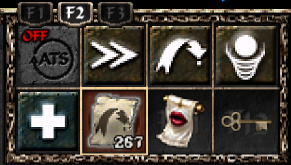
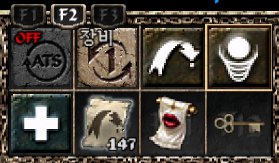
Improve hotel key and equipment verification and set MP readiness to 95 percent

diff --git a/pc/routine/hotel_key_check.py b/pc/routine/hotel_key_check.py
@@ -1,0 +1,75 @@
+"""Recheck missing hotel keys before allowing the purchase sequence."""
+import cv2
+
+from pc.routine.timing import sleep_jittered
+
+
+def check_hotel_key(settings, project_root, link, skill_panel, window_title,
+                    screen_capture_cls):
+    """Return True if seen, False after all valid misses, None if uncertain."""
+    from pc.routine.step_buy_hotel_key import ensure_visible_skill_tab
+
+    cfg = settings["icons"]["hotel_key"]
+    paths = cfg.get("templates") or [cfg["template"]]
+    templates = []
+    for path in paths:
+        template = cv2.imread(str(project_root / path))
+        if template is None:
+            print(f"  [hotel key] template unreadable: {path}; purchase blocked")
+            return None
+        templates.append((path, template))
+    threshold = float(cfg.get("match_threshold", 0.85))
+    attempts = max(2, int(cfg.get("absence_verify_attempts", 4)))
+    interval = max(0.0, float(cfg.get("absence_verify_interval_seconds", 0.5)))
+    uncertain = False
+    for attempt in range(1, attempts + 1):
+        if not ensure_visible_skill_tab(link, skill_panel, window_title, screen_capture_cls):
+            print("  [hotel key] skill tab unavailable; purchase blocked")
+            return None
+        with screen_capture_cls(window_title=window_title) as cap:
+            frame = cap.grab()
+        region = skill_panel.relocate(frame)
+        crop = None
+        if region is None:
+            uncertain = True
+            print(f"  [hotel key] {attempt}/{attempts}: ROI missing; not an absence")
+        else:
+            crop = frame[region.top:region.top + region.height,
+                         region.left:region.left + region.width]
+            present = False
+            for path, template in templates:
+                if (template.shape[0] > crop.shape[0]
+                        or template.shape[1] > crop.shape[1]):
+                    uncertain = True
+                    print(f"  [hotel key] template larger than ROI: {path}")
+                    continue
+                scores = cv2.matchTemplate(crop, template, cv2.TM_CCOEFF_NORMED)
+                _, score, _, position = cv2.minMaxLoc(scores)
+                print(
+                    f"  [hotel key] {attempt}/{attempts}: {path} "
+                    f"score={score:.6f} threshold={threshold:.6f} position={position}"
+                )
+                present = present or score >= threshold
+            if present:
+                print("  [hotel key] present -- purchase skipped")
+                return True
+        # Bounded storage: latest unsuccessful observation only.
+        try:
+            directory = project_root / "output" / "hotel_key_diagnostics"
+            directory.mkdir(parents=True, exist_ok=True)
+            for name, pixels in (("screen", frame), ("roi", crop)):
+                path = directory / f"latest_{name}.png"
+                if pixels is None:
+                    path.unlink(missing_ok=True)
+                elif not cv2.imwrite(str(path), pixels):
+                    print(f"  [hotel key] failed to save {path}")
+            print(f"  [hotel key] diagnostic directory: {directory}")
+        except Exception as exc:
+            print(f"  [hotel key] diagnostic save failed: {exc}")
+        if attempt < attempts:
+            sleep_jittered(interval, jitter_seconds=0.0)
+    if uncertain:
+        print("  [hotel key] incomplete verification; purchase blocked")
+        return None
+    print(f"  [hotel key] absent in all {attempts} valid observations")
+    return False

diff --git a/pc/routine/step_auto_hunt.py b/pc/routine/step_auto_hunt.py
@@ -443,26 +443,18 @@ def ensure_hotel_key(settings: dict, project_root: Path, window_title: str,
                      link: SerialLink, skill_panel: SkillPanelLocator,
                      hotel_text, rent_room_text, ok_button_text,
                      screen_capture_cls) -> bool:
-    """Ensure the hotel key exists, running Step 1 once when absent."""
+    """Run Step 1 only after repeated valid observations miss the hotel key."""
     import pc.routine.step_buy_hotel_key as step1
+    from pc.routine.hotel_key_check import check_hotel_key
 
     for check_attempt in range(1, 3):
-        if not step1.ensure_visible_skill_tab(
-            link, skill_panel, window_title, screen_capture_cls
-        ):
-            print("  [hotel key] skill panel unavailable")
-            _set_step2_failure("F2 입력 후 roi_skill 패널을 인식하지 못해 여관 열쇠를 확인할 수 없음")
-            return False
-        with screen_capture_cls(window_title=window_title) as cap:
-            frame = cap.grab()
-        hotel_key = build_icon_detector(
-            settings["icons"]["hotel_key"], project_root, panel=skill_panel
-        ).measure(frame)
-        print(
-            f"  [hotel key] check {check_attempt}: "
-            f"present={hotel_key.present} score={hotel_key.match_score:.3f}"
+        key_present = check_hotel_key(
+            settings, project_root, link, skill_panel, window_title, screen_capture_cls,
         )
-        if hotel_key.present:
+        if key_present is None:
+            _set_step2_failure("여관 열쇠 판독 불확실: 구매하지 않고 중단함")
+            return False
+        if key_present:
             return True
         if check_attempt == 2:
             print("  [hotel key] still absent after [1단계]")
@@ -475,7 +467,7 @@ def ensure_hotel_key(settings: dict, project_root: Path, window_title: str,
             hotel_text, rent_room_text, ok_button_text, screen_capture_cls,
         ):
             print("  [1단계] failed.")
-            _set_step2_failure("여관 열쇠가 없어 실행한 1단계 열쇠 구매가 실패함")
+            _set_step2_failure("여관 열쇠 반복 미검출 후 실행한 1단계 구매가 실패함")
             return False
     _set_step2_failure("여관 열쇠 확인이 완료되지 않음")
     return False
@@ -499,7 +491,7 @@ def ensure_step2(settings: dict, project_root: Path, window_title: str, link: Se
     import pc.routine.step_move_to_hotel as step2
     global _last_step2_failure_reason
     _last_step2_failure_reason = None
-    mp_ready_percent = float(settings.get("step2", {}).get("mp_ready_percent", 97.0))
+    mp_ready_percent = float(settings.get("step2", {}).get("mp_ready_percent", 95.0))
 
     # The hotel key is a persistent precondition for every [2단계]
     # entry, independent of current MP.

diff --git a/pc/routine/equipment.py b/pc/routine/equipment.py
@@ -28,7 +28,9 @@ def ensure_equipment(settings, project_root, link, skill_panel, window_title,
     threshold = float(cfg["match_threshold"])
     margin = float(cfg["score_margin"])
 
-    def read_state():
+    def read_state(expected=None):
+        # Initial detection accepts either stable set. After F6, a stable old
+        # set must not end verification early while the game is transitioning.
         previous = None
         for attempt in range(attempts):
             with screen_capture_cls(window_title=window_title) as cap:
@@ -56,7 +58,8 @@ def ensure_equipment(settings, project_root, link, skill_panel, window_title,
                     f"  [equipment] set1={scores[1]:.3f} set2={scores[2]:.3f} "
                     f"threshold={threshold:.2f} margin={margin:.2f} state={current}"
                 )
-            if current is not None and current == previous:
+            if (current is not None and current == previous
+                    and (expected is None or current == expected)):
                 return current
             previous = current
             if attempt + 1 < attempts:
@@ -76,7 +79,7 @@ def ensure_equipment(settings, project_root, link, skill_panel, window_title,
     if not ok:
         return False
     sleep_jittered(max(0.0, float(cfg["settle_seconds"])), jitter_seconds=0.0)
-    if read_state() != target:
+    if read_state(expected=target) != target:
         print(f"  [equipment] set {target} not confirmed")
         return False
     print(f"  [equipment] set {target} confirmed")

diff --git a/pc/routine/run_all.py b/pc/routine/run_all.py
@@ -274,7 +274,7 @@ def _run_once() -> float:
                 print("[startup] roi_chatting click failed -- restarting session")
                 return restart_delay_s
 
-            mp_ready_percent = float(settings.get("step2", {}).get("mp_ready_percent", 97.0))
+            mp_ready_percent = float(settings.get("step2", {}).get("mp_ready_percent", 95.0))
             print(f"=== 초기 진입: [2단계] (hotel_key 확인 -> 필요시 [1단계] -> [2단계] -> HP 100% / MP {mp_ready_percent:g}% 이상 대기) ===")
             ok = step4.ensure_step2(settings, project_root, window_title, link, skill_panel, hp_detector, mp_detector,
                                      hotel_text, rent_room_text, ok_button_text,
